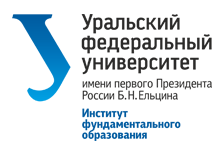
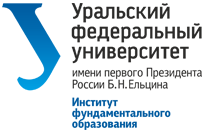
Поправил стили для сайлбара и футера

diff --git a/docs/conf.py b/docs/conf.py
@@ -19,7 +19,7 @@ from docutils.parsers.rst import directives
 
 directives.register_directive('no-code-block', CodeBlock)
 
-html_logo = '_static/urfu.png'
+html_logo = '_static/info-small.png'
 html_favicon = '_static/urfu.ico'
 html_sidebars = {
     '**': ['globaltoc.html', 'sourcelink.html', 'searchbox.html'],
@@ -122,10 +122,12 @@ html_theme = 'mydefault'
 html_theme_options = {
     'collapsiblesidebar': True,
     'sidebarbgcolor': '#eee',
-    'sidebartextcolor': '#f33',
+    'sidebartextcolor': '#33a',
     'sidebarlinkcolor': '#333',
     'relbarbgcolor': '#666',
     'sidebarbtncolor': '#666',
+    'footerbgcolor': '#eee',
+    'footertextcolor': '#000',
 }
 
 # Add any paths that contain custom themes here, relative to this directory.
